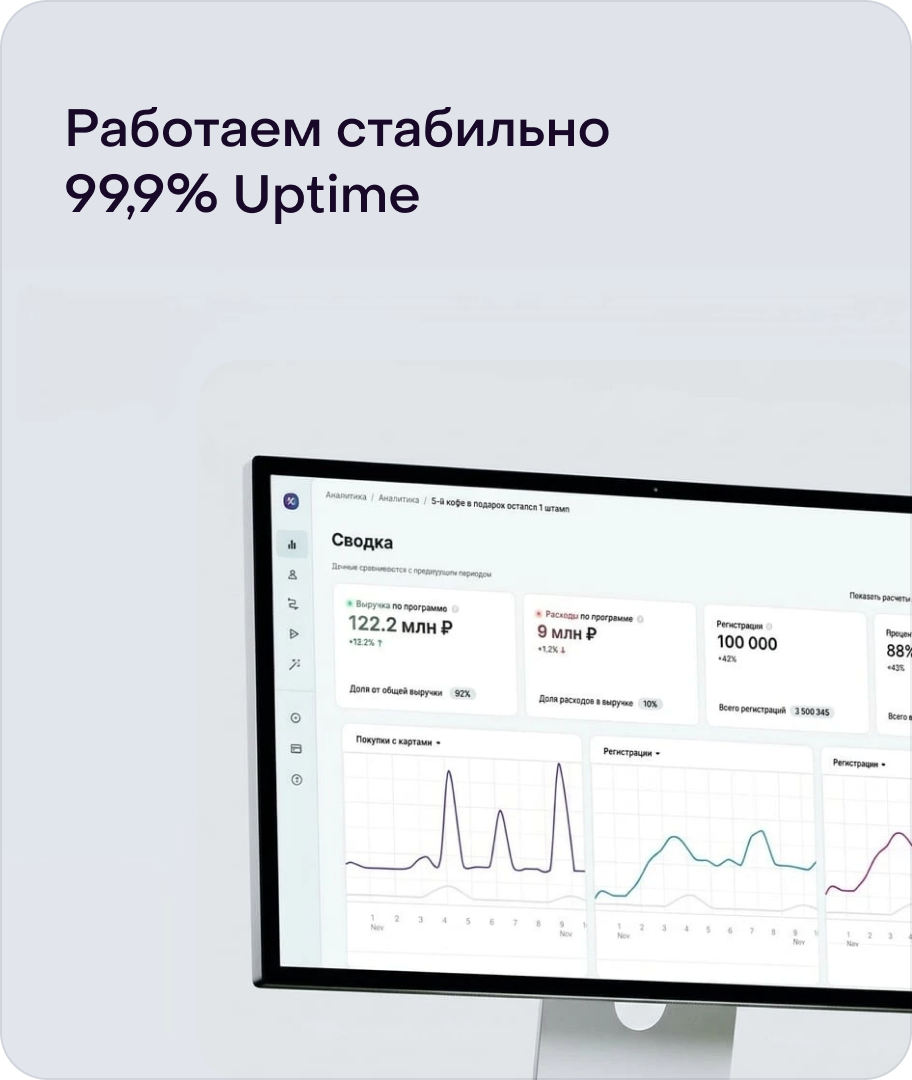
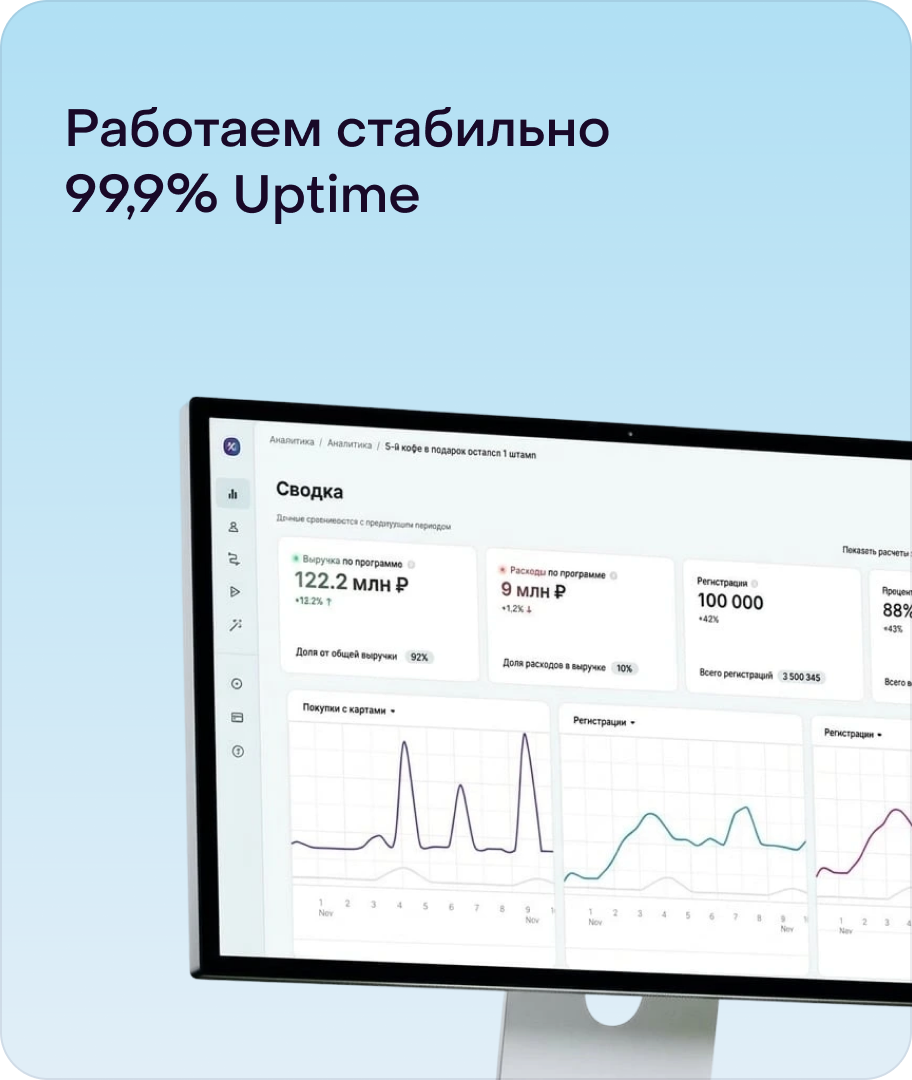
Sync with the mockup update: card arrows, trust images, footer
Logo cards and the "Больше, чем платформа" rows use the new 24px
outlined arrow, the Uptime card gets its new blue artwork, the
platform subtitle is gone, sections below the hero sit 80px lower,
and the footer follows the new grid (118px inset, 1222px wide) and
Object Sans 14px-leading copy.

diff --git a/css/styles.css b/css/styles.css
@@ -1,10 +1,10 @@
 /* =====================================================================
    MAXMA — main page
-   Figma: J5O8dq0z1hB7ba68lMvQYn · frame «Главная» 14:128 (1440 × 8115)
+   Figma: J5O8dq0z1hB7ba68lMvQYn · frame «Главная» 14:128 (1440 × 8208)
    Fixed-width 1440 prototype. Every block is placed at its Figma
    coordinates; inner layouts mirror the Figma auto-layout. The
    «Максимум результата» block is left out for now, so everything from
-   «Платформа, которой доверяют» down sits 794px higher than in Figma.
+   «Платформа, которой доверяют» down sits 832px higher than in Figma.
    ===================================================================== */
 
 /* ---------- Object Sans (PP Object Sans) ---------- */
@@ -57,7 +57,7 @@ hr{border:0;margin:0}
 /* Layout sits on a 1440 grid and the frame does not clip: full-bleed art
    (the hero gradient at 1520) paints past the frame edge, and wider screens
    just show white to either side. */
-.stage{position:relative;width:1440px;height:7321px;margin:0 auto;background:#fff}
+.stage{position:relative;width:1440px;height:7376px;margin:0 auto;background:#fff}
 .stage>*{position:absolute}
 
 /* ---------- asset placeholders ----------
@@ -202,7 +202,7 @@ hr{border:0;margin:0}
 /* =====================================================================
    CLIENT RESULTS · 20:1364
    ===================================================================== */
-.results{left:366px;top:1657px;width:709px;display:flex;flex-direction:column;gap:24px}
+.results{left:366px;top:1737px;width:709px;display:flex;flex-direction:column;gap:24px}
 .results__line{font-weight:500;font-size:26px;line-height:1.26;color:var(--ink-40)}
 .results__line b{font-weight:500;color:#190927;text-decoration:underline solid transparent;text-underline-offset:5px;text-decoration-thickness:1.5px;transition:text-decoration-color .2s ease}
 .results__line:hover b{text-decoration-color:#190927}
@@ -212,7 +212,7 @@ hr{border:0;margin:0}
    Column of heading / tabs / carousel row / pagination, 50px apart.
    The row is wider than the 1400 window, so the next case peeks in.
    ===================================================================== */
-.ccl{left:20px;top:2006px;width:1400px;display:flex;flex-direction:column;align-items:center;gap:50px}
+.ccl{left:20px;top:2086px;width:1400px;display:flex;flex-direction:column;align-items:center;gap:50px}
 .ccl__title{width:612px}
 
 .pill-tabs{display:flex;align-items:center;padding:4px;border-radius:30px;background:var(--surface)}
@@ -234,10 +234,8 @@ hr{border:0;margin:0}
 .lgrid{width:692px;height:523px;flex:none;display:grid;grid-template-columns:repeat(2,1fr);grid-template-rows:repeat(3,1fr);gap:16px}
 .lcard{position:relative;display:block;border-radius:24px;background:var(--surface)}
 .lcard__logo{position:absolute;left:calc(50% + .5px);top:50%;width:225px;height:90px;transform:translate(-50%,-50%);background-size:100% 100%}
-.lcard__arrow{position:absolute;left:270px;top:20px;width:46.495px;height:26.495px;transition:transform .2s ease}
+.lcard__arrow{position:absolute;right:20px;top:20px;width:24px;height:24px;transition:transform .2s ease}
 .lcard:hover .lcard__arrow{transform:translate(2px,-2px)}
-.lcard:nth-child(2n) .lcard__arrow{left:272px}
-.lcard:first-child .lcard__arrow{top:19.67px}
 
 /* Next case, peeking in from the right · 14:274 */
 .ccl__peek{width:574px;height:523px;flex:none;border-radius:22px;background:linear-gradient(180deg,#fae4be 0%,#f7f3e9 100%)}
@@ -251,17 +249,16 @@ hr{border:0;margin:0}
 /* =====================================================================
    PLATFORM · 14:282
    ===================================================================== */
-.platform-head{left:281px;top:3029px;width:878px}
+.platform-head{left:281px;top:3109px;width:878px}
 .platform-head .sec-title{width:608px}
-.platform-head .sec-sub{width:608px}
 
-.stage-tabs{left:20px;top:3223px;width:210px;height:292px;display:flex;flex-direction:column;align-items:flex-start;justify-content:center;gap:4px;padding:4px 0;border-radius:30px;background:#fff}
+.stage-tabs{left:20px;top:3265px;width:210px;height:292px;display:flex;flex-direction:column;align-items:flex-start;justify-content:center;gap:4px;padding:4px 0;border-radius:30px;background:#fff}
 .stab{height:44px;padding:8px 24px;border-radius:60px;display:flex;align-items:center;justify-content:center;font-size:14px;line-height:24px;letter-spacing:-.14px;color:var(--ink);opacity:.6;white-space:nowrap;transition:background .2s,opacity .2s}
 .stab:hover{opacity:.9}
 /* the .5px hairline is inset so it doesn't widen the pill */
 .stab.is-active{background:var(--surface);box-shadow:inset 0 0 0 .5px rgba(0,0,0,.08);opacity:1;font-weight:500}
 
-.pcards{left:246px;top:3223px;width:1194px;height:602px;overflow:hidden}
+.pcards{left:246px;top:3265px;width:1194px;height:602px;overflow:hidden}
 .pcards__track{display:flex;align-items:flex-start;gap:16px;transition:transform .55s cubic-bezier(.4,0,.2,1)}
 /* Each segment is one 1046x602 artwork — gradient, copy, button and device
    are all baked in, so the card is just the picture. Three artworks cycle
@@ -271,7 +268,7 @@ hr{border:0;margin:0}
 /* =====================================================================
    TRUST · 14:358
    ===================================================================== */
-.trust{left:20px;top:3973px;width:1400px;display:flex;flex-direction:column;align-items:center;gap:60px}
+.trust{left:20px;top:4015px;width:1400px;display:flex;flex-direction:column;align-items:center;gap:60px}
 .trust__title{width:456px}
 .trust__row{display:flex;align-items:center;gap:16px;width:100%}
 
@@ -296,33 +293,33 @@ hr{border:0;margin:0}
 /* =====================================================================
    MORE THAN A PLATFORM · 20:1457
    ===================================================================== */
-.more-bg{left:20px;top:4789px;width:1400px;height:785px;background:var(--surface);border:1px solid rgba(25,9,40,.08);border-radius:24px}
-.more-title{left:138px;top:4869px;width:410px;text-align:left}
+.more-bg{left:20px;top:4831px;width:1400px;height:785px;background:var(--surface);border:1px solid rgba(25,9,40,.08);border-radius:24px}
+.more-title{left:138px;top:4911px;width:410px;text-align:left}
 /* Figma runs the gradient across the whole 410px text box, not just the word */
 .more-title .grad{background-size:410px 100%}
-.more-sub{left:138px;top:5029px;width:338px;font-size:16px;line-height:22px;color:var(--ink)}
+.more-sub{left:138px;top:5071px;width:338px;font-size:16px;line-height:22px;color:var(--ink)}
 
-.more-list{left:610px;top:4869px;width:756px;display:flex;flex-direction:column;gap:32px}
+.more-list{left:610px;top:4911px;width:756px;display:flex;flex-direction:column;gap:32px}
 .more-row{display:flex;align-items:center;gap:24px;width:100%;color:var(--ink)}
 .more-row__pic{width:338px;height:187px;flex:none;border-radius:16px;overflow:hidden;transition:transform .3s ease}
 .more-row:hover .more-row__pic{transform:scale(1.015)}
 .more-row__text{width:394px;display:flex;flex-direction:column;gap:12px}
 .more-row__head{display:flex;align-items:flex-start;justify-content:space-between;width:100%}
 .more-row__name{font-weight:500;font-size:26px;line-height:normal;white-space:nowrap}
-.more-row__arrow{width:46.495px;height:26.495px;flex:none;transition:transform .2s ease}
+.more-row__arrow{width:24px;height:24px;flex:none;transition:transform .2s ease}
 .more-row:hover .more-row__arrow{transform:translate(2px,-2px)}
 .more-row__desc{font-size:17px;line-height:19px;opacity:.6}
 
 /* stickers ride on the top-left corner of each picture */
 .more-sticker{left:618px;width:50.886px;height:50px;background-color:transparent;background-size:100% 100%;pointer-events:none}
-.more-sticker--1{top:4876px}
-.more-sticker--2{top:5095px}
-.more-sticker--3{top:5312px}
+.more-sticker--1{top:4918px}
+.more-sticker--2{top:5137px}
+.more-sticker--3{top:5354px}
 
 /* =====================================================================
    LEAD FORM · 14:423
    ===================================================================== */
-.lead{left:0;top:5694px;width:1440px;height:794px}
+.lead{left:0;top:5736px;width:1440px;height:794px}
 
 .lead__form{position:absolute;left:138px;top:125.83px;width:456px;display:flex;flex-direction:column;align-items:flex-start;gap:32px}
 .lead__head{display:flex;flex-direction:column;gap:16px}
@@ -346,7 +343,7 @@ hr{border:0;margin:0}
 .check__label{font-size:14px;line-height:16px;color:var(--ink);opacity:.5;white-space:nowrap}
 .check--light .check__box{width:20px;height:20px;border-radius:4px;border-color:#fff;background:var(--ink);opacity:.5}
 .check--light input:checked+.check__box{background:#fff;opacity:1}
-.check--light .check__label{font-family:var(--rubik);font-weight:450;font-size:16px;line-height:24px;letter-spacing:-.16px;color:#fff;opacity:.5;white-space:normal;width:289px}
+.check--light .check__label{font-weight:500;font-size:16px;line-height:14px;letter-spacing:-.16px;color:#fff;opacity:.4;white-space:normal;width:289px}
 
 /* 14:414 — the monitor collage is exported whole, stickers included. */
 .lead__visual{position:absolute;left:728px;top:0;width:692px;height:794px;border-radius:20px;overflow:hidden}
@@ -354,10 +351,10 @@ hr{border:0;margin:0}
 /* =====================================================================
    FOOTER · 27:243
    ===================================================================== */
-.ftr{left:20px;top:6608px;width:1400px;height:694px;background:var(--ink);border-radius:24px;overflow:hidden;color:#fff}
-.ftr__logo{position:absolute;left:140px;top:84px;width:94.48px;height:28px}
+.ftr{left:20px;top:6650px;width:1400px;height:694px;background:var(--ink);border-radius:24px;overflow:hidden;color:#fff}
+.ftr__logo{position:absolute;left:118px;top:84px;width:94.48px;height:28px}
 
-.ftr__contacts{position:absolute;left:140px;top:144px;display:flex;flex-direction:column;gap:24px;align-items:flex-start}
+.ftr__contacts{position:absolute;left:118px;top:144px;display:flex;flex-direction:column;gap:24px;align-items:flex-start}
 .ftr__contact{font-weight:500;font-size:16px;line-height:20px;letter-spacing:-.16px;color:#fff;white-space:nowrap;transition:opacity .18s}
 .ftr__contact:hover{opacity:.7}
 .ftr__social{display:flex;align-items:center;gap:19px;height:32px}
@@ -370,13 +367,16 @@ hr{border:0;margin:0}
 .ftr__sub{position:absolute;left:823px;top:84px;width:517px;display:flex;flex-direction:column;gap:16px}
 .ftr__subhead{display:flex;flex-direction:column;gap:16px;width:415px}
 .ftr__subtitle{font-weight:500;font-size:26px;line-height:normal;color:#fff}
-.ftr__subdesc{width:348px;font-family:var(--rubik);font-weight:450;font-size:16px;line-height:24px;letter-spacing:-.16px;color:#fff;opacity:.5}
+.ftr__subdesc{width:348px;font-size:16px;line-height:14px;letter-spacing:-.16px;color:#fff;opacity:.4}
+/* 14px lines 10px apart, as set in Figma */
+.ftr__subdesc span,.ftr__legal span{display:block}
+.ftr__subdesc span+span,.ftr__legal span+span{margin-top:10px}
 .ftr__subform{display:flex;align-items:center;justify-content:space-between;width:100%;height:64px;padding:12px 0;border-bottom:1px solid rgba(255,255,255,.2)}
-.ftr__subform input{flex:1;min-width:0;border:0;outline:0;background:none;font-family:var(--rubik);font-weight:450;font-size:16px;line-height:24px;letter-spacing:-.16px;color:#fff}
-.ftr__subform input::placeholder{color:#a29fb2;opacity:1}
+.ftr__subform input{flex:1;min-width:0;border:0;outline:0;background:none;font-weight:500;font-size:16px;line-height:14px;letter-spacing:-.16px;color:#fff}
+.ftr__subform input::placeholder{color:#fff;opacity:.4}
 .ftr__subform .btn{width:143px;height:40px}
 
-.ftr__body{position:absolute;left:118px;top:355px;width:1164px;display:flex;flex-direction:column;gap:60px}
+.ftr__body{position:absolute;left:118px;top:355px;width:1222px;display:flex;flex-direction:column;gap:60px}
 .ftr__rule{width:100%;border-top:1px solid rgba(255,255,255,.1)}
 .ftr__cols{display:flex;align-items:flex-start;width:100%}
 .ftr__col{width:235px;flex:none;display:flex;flex-direction:column;gap:24px}
@@ -386,10 +386,10 @@ hr{border:0;margin:0}
 .ftr__col li a{font-weight:500;font-size:16px;line-height:20px;letter-spacing:-.16px;color:#fff;white-space:nowrap;transition:opacity .18s}
 .ftr__col li a:hover{opacity:.65}
 .ftr__col li+li{margin-top:10px}
-.ftr__legal{flex:1;min-width:0;display:flex;flex-direction:column;gap:32px;font-family:var(--rubik);font-weight:400;font-size:16px;line-height:20px;letter-spacing:-.16px;color:rgba(255,255,255,.4)}
-/* two 280px offices + 48px gap run past the 459px column, as in the mockup */
+.ftr__legal{flex:1;min-width:0;display:flex;flex-direction:column;gap:32px;font-size:16px;line-height:14px;letter-spacing:-.16px;color:#fff;opacity:.4}
 .ftr__addr{display:flex;gap:48px}
-.ftr__addr p{width:280px;flex:none}
+.ftr__addr p{flex:none;width:244px}
+.ftr__addr p+p{width:280px}
 
 /* =====================================================================
    TOAST

diff --git a/index.html b/index.html
@@ -81,27 +81,27 @@
         <div class="lgrid" data-node="14:212">
           <a class="lcard" href="#" data-node="14:213">
             <span class="lcard__logo ph" data-asset="client-04"></span>
-            <img class="lcard__arrow" src="assets/img/arrow-chip.svg" alt="">
+            <img class="lcard__arrow" src="assets/img/arrow-outward.svg" alt="" width="24" height="24">
           </a>
           <a class="lcard" href="#" data-node="14:217">
             <span class="lcard__logo ph" data-asset="client-05"></span>
-            <img class="lcard__arrow" src="assets/img/arrow-chip.svg" alt="">
+            <img class="lcard__arrow" src="assets/img/arrow-outward.svg" alt="" width="24" height="24">
           </a>
           <a class="lcard" href="#" data-node="14:232">
             <span class="lcard__logo ph ph--logo" data-asset="client-03"></span>
-            <img class="lcard__arrow" src="assets/img/arrow-chip.svg" alt="">
+            <img class="lcard__arrow" src="assets/img/arrow-outward.svg" alt="" width="24" height="24">
           </a>
           <a class="lcard" href="#" data-node="14:237">
             <span class="lcard__logo ph ph--logo" data-asset="client-03"></span>
-            <img class="lcard__arrow" src="assets/img/arrow-chip.svg" alt="">
+            <img class="lcard__arrow" src="assets/img/arrow-outward.svg" alt="" width="24" height="24">
           </a>
           <a class="lcard" href="#" data-node="14:242">
             <span class="lcard__logo ph ph--logo" data-asset="client-03"></span>
-            <img class="lcard__arrow" src="assets/img/arrow-chip.svg" alt="">
+            <img class="lcard__arrow" src="assets/img/arrow-outward.svg" alt="" width="24" height="24">
           </a>
           <a class="lcard" href="#" data-node="14:247">
             <span class="lcard__logo ph ph--logo" data-asset="client-07"></span>
-            <img class="lcard__arrow" src="assets/img/arrow-chip.svg" alt="">
+            <img class="lcard__arrow" src="assets/img/arrow-outward.svg" alt="" width="24" height="24">
           </a>
         </div>
 
@@ -120,7 +120,6 @@
   <!-- ============ PLATFORM · 14:282 ============ -->
   <div class="sec-head platform-head" id="platform" data-node="14:283">
     <h2 class="sec-title">Одна платформа для <span class="grad">системного маркетинга</span></h2>
-    <p class="sec-sub">От первого знакомства до повторных покупок ваших клиентов</p>
   </div>
 
   <div class="stage-tabs" data-node="14:287" role="tablist">
@@ -144,14 +143,14 @@
   </div>
 
   <!-- ============ TRUST · 14:358 ============ -->
-  <section class="trust" data-node="14:358">
+  <section class="trust" data-node="29:1154">
     <h2 class="sec-title trust__title" data-node="14:359">Платформа <span class="grad">Которой доверяют</span></h2>
     <div class="trust__row" data-node="14:360">
-      <div class="trust__uptime ph" data-asset="trust-uptime" data-node="14:361" role="img" aria-label="Работаем стабильно 99,9% Uptime"></div>
+      <div class="trust__uptime ph" data-asset="trust-uptime" data-node="29:1157" role="img" aria-label="Работаем стабильно 99,9% Uptime"></div>
       <div class="trust__col" data-node="14:365">
         <div class="trust__card trust__card--years" data-node="14:366">
           <p class="trust__lead trust__lead--years">10 лет на рынке клиентского маркетинга</p>
-          <span class="trust__logos ph" data-asset="trust-logos" data-node="14:368"></span>
+          <span class="trust__logos ph" data-asset="trust-logos" data-node="29:1164"></span>
           <span class="trust__chip" data-node="14:379">+500 брендов</span>
         </div>
         <div class="trust__card trust__card--ru" data-node="14:381">
@@ -159,7 +158,7 @@
           <p class="trust__note">Данные защищены по 152-ФЗ</p>
         </div>
       </div>
-      <div class="trust__support ph" data-asset="trust-support" data-node="14:384" role="img" aria-label="Рядом за 5 минут — среднее время ответа поддержки"></div>
+      <div class="trust__support ph" data-asset="trust-support" data-node="29:1180" role="img" aria-label="Рядом за 5 минут — среднее время ответа поддержки"></div>
     </div>
   </section>
 
@@ -172,21 +171,21 @@
     <a class="more-row" href="#" data-node="15:684">
       <span class="more-row__pic ph" data-asset="more-articles" data-node="14:490"></span>
       <span class="more-row__text">
-        <span class="more-row__head"><span class="more-row__name">Статьи</span><img class="more-row__arrow" src="assets/img/arrow-chip.svg" alt=""></span>
+        <span class="more-row__head"><span class="more-row__name">Статьи</span><img class="more-row__arrow" src="assets/img/arrow-outward.svg" alt="" width="24" height="24"></span>
         <span class="more-row__desc">Разборы механик и кейсов вживую</span>
       </span>
     </a>
     <a class="more-row" href="#" data-node="15:685">
       <span class="more-row__pic ph" data-asset="more-academy" data-node="14:489"></span>
       <span class="more-row__text">
-        <span class="more-row__head"><span class="more-row__name">Академия</span><img class="more-row__arrow" src="assets/img/arrow-chip.svg" alt=""></span>
+        <span class="more-row__head"><span class="more-row__name">Академия</span><img class="more-row__arrow" src="assets/img/arrow-outward.svg" alt="" width="24" height="24"></span>
         <span class="more-row__desc">Обучение CRM-маркетингу с нуля</span>
       </span>
     </a>
     <a class="more-row" href="#" data-node="15:686">
       <span class="more-row__pic ph" data-asset="more-kb" data-node="14:488"></span>
       <span class="more-row__text">
-        <span class="more-row__head"><span class="more-row__name">База знаний</span><img class="more-row__arrow" src="assets/img/arrow-chip.svg" alt=""></span>
+        <span class="more-row__head"><span class="more-row__name">База знаний</span><img class="more-row__arrow" src="assets/img/arrow-outward.svg" alt="" width="24" height="24"></span>
         <span class="more-row__desc">Гайды и ответы по платформе</span>
       </span>
     </a>
@@ -202,7 +201,7 @@
     <form class="lead__form" id="leadForm" novalidate data-node="14:394">
       <div class="lead__head">
         <p class="lead__title">Оставить заявку</p>
-        <p class="lead__sub">Покажем, как MAXMA решит ваши задачи</p>
+        <p class="lead__sub">Покажем, как MAXMA решает ваши задачи</p>
       </div>
       <div class="lead__fields">
         <label class="field"><input type="text" name="name" placeholder="Ваше имя" autocomplete="name"></label>
@@ -236,7 +235,7 @@
     <div class="ftr__sub" data-node="27:284">
       <div class="ftr__subhead">
         <p class="ftr__subtitle">Подписаться на рассылку</p>
-        <p class="ftr__subdesc">Получайте обновления платформы, журнал<br>и события. Без спама</p>
+        <p class="ftr__subdesc"><span>Получайте обновления платформы, журнал</span><span>и события. Без спама</span></p>
       </div>
       <form class="ftr__subform" id="subForm" novalidate>
         <input type="email" name="email" placeholder="Ваш e-mail" autocomplete="email">
@@ -261,10 +260,10 @@
           <ul><li><a href="#">О компании</a></li><li><a href="#">Для партнёров</a></li><li><a href="#">Блог</a></li><li><a href="#">Контакты</a></li></ul>
         </div>
         <div class="ftr__legal" data-node="29:329">
-          <p>© 2017-2023 MAXMA ООО "Доставка покупателей"<br>ИНН: 5041206183 КПП: 504101001 ОГРН: 1175053011451</p>
+          <p><span>© 2017-2023 MAXMA ООО "Доставка покупателей"</span><span>ИНН: 5041206183 КПП: 504101001 ОГРН: 1175053011451</span></p>
           <div class="ftr__addr">
-            <p>Москва<br>Малая Семёновская, 3А стр 1</p>
-            <p>Амстердам<br>Veeteeltstraat 58, 1097WZ</p>
+            <p><span>Москва</span><span>Малая Семёновская, 3А стр 1</span></p>
+            <p><span>Амстердам</span><span>Veeteeltstraat 58, 1097WZ</span></p>
           </div>
         </div>
       </div>

diff --git a/ASSETS.md b/ASSETS.md
@@ -1,6 +1,6 @@
 # Ассеты
 
-Файл: `J5O8dq0z1hB7ba68lMvQYn` → фрейм **Главная** `14:128` (1440 × 8115).
+Файл: `J5O8dq0z1hB7ba68lMvQYn` → фрейм **Главная** `14:128` (1440 × 8208).
 
 Всё ниже уже выгружено и лежит в `assets/img/`. Если в макете что-то
 поменялось — экспортируйте тот же узел @2x и положите поверх под тем же
@@ -23,11 +23,11 @@
 | `case-study-1.png`, `case-study-2.png` | `29:456`, `14:252` | 574 × 523 | Карточки кейсов целиком |
 | `client-04.png`, `client-05.png` | `14:214`, `14:218` | 225 × 90 | Akhmadullina, Milavitsa — на сером фоне карточки |
 | `client-03.svg`, `client-07.svg` | `14:233`, `14:250` | 225 × 90 | Lamoda, Gate31 |
-| `arrow-chip.svg` | `14:640` | 46.5 × 26.5 | Стрелка в карточках логотипов и в «Больше, чем платформа» |
+| `arrow-outward.svg` | `29:493` | 24 × 24 | Стрелка в карточках логотипов и в «Больше, чем платформа» |
 | `platform-1.png` … `platform-3.png` | — | 1046 × 602 | Карточки «Одна платформа» целиком, из прошлой версии; ходят по кругу по шести табам |
-| `trust-uptime.png` | `14:361` | 456 × 540 | «Работаем стабильно 99,9% Uptime» целиком |
-| `trust-logos.png` | `14:368` | 235.5 × 72 | Стопка логотипов в «10 лет на рынке» |
-| `trust-support.png` | `14:384` | 458 × 542 | «Рядом за 5 минут» целиком (с внешней обводкой) |
+| `trust-uptime.png` | `29:1157` | 456 × 540 | «Работаем стабильно 99,9% Uptime» целиком |
+| `trust-logos.png` | `29:1164` | 235.5 × 72 | Стопка логотипов в «10 лет на рынке» |
+| `trust-support.png` | `29:1180` | 458 × 542 | «Рядом за 5 минут» целиком (с внешней обводкой) |
 | `more-articles/academy/kb.png` | `14:490`, `14:489`, `14:488` | 338 × 187 | Фото в «Больше, чем просто платформа» |
 | `sticker-articles/academy/kb.png` | `20:1462`, `20:1461`, `20:1460` | 51 × 50 | Стикеры на этих фото |
 | `lead-visual.png` | `14:414` | 692 × 794 | Визуал у формы заявки, стикеры внутри |

diff --git a/README.md b/README.md
@@ -2,10 +2,10 @@
 
 HTML/CSS/JS-прототип для показа дизайна клиенту. Свёрстан по макету
 [Главная](https://www.figma.com/design/J5O8dq0z1hB7ba68lMvQYn/Untitled?node-id=14-128)
-(`14:128`, 1440 × 8115), фиксированная ширина **1440 px**.
+(`14:128`, 1440 × 8208), фиксированная ширина **1440 px**.
 
 Блока «Максимум результата» пока нет — он будет перерисован. Всё, что в
-макете ниже него, поднято на его место: `y на странице = y в Figma − 794`.
+макете ниже него, поднято на его место: `y на странице = y в Figma − 832`.
 
 ## Запуск
 
